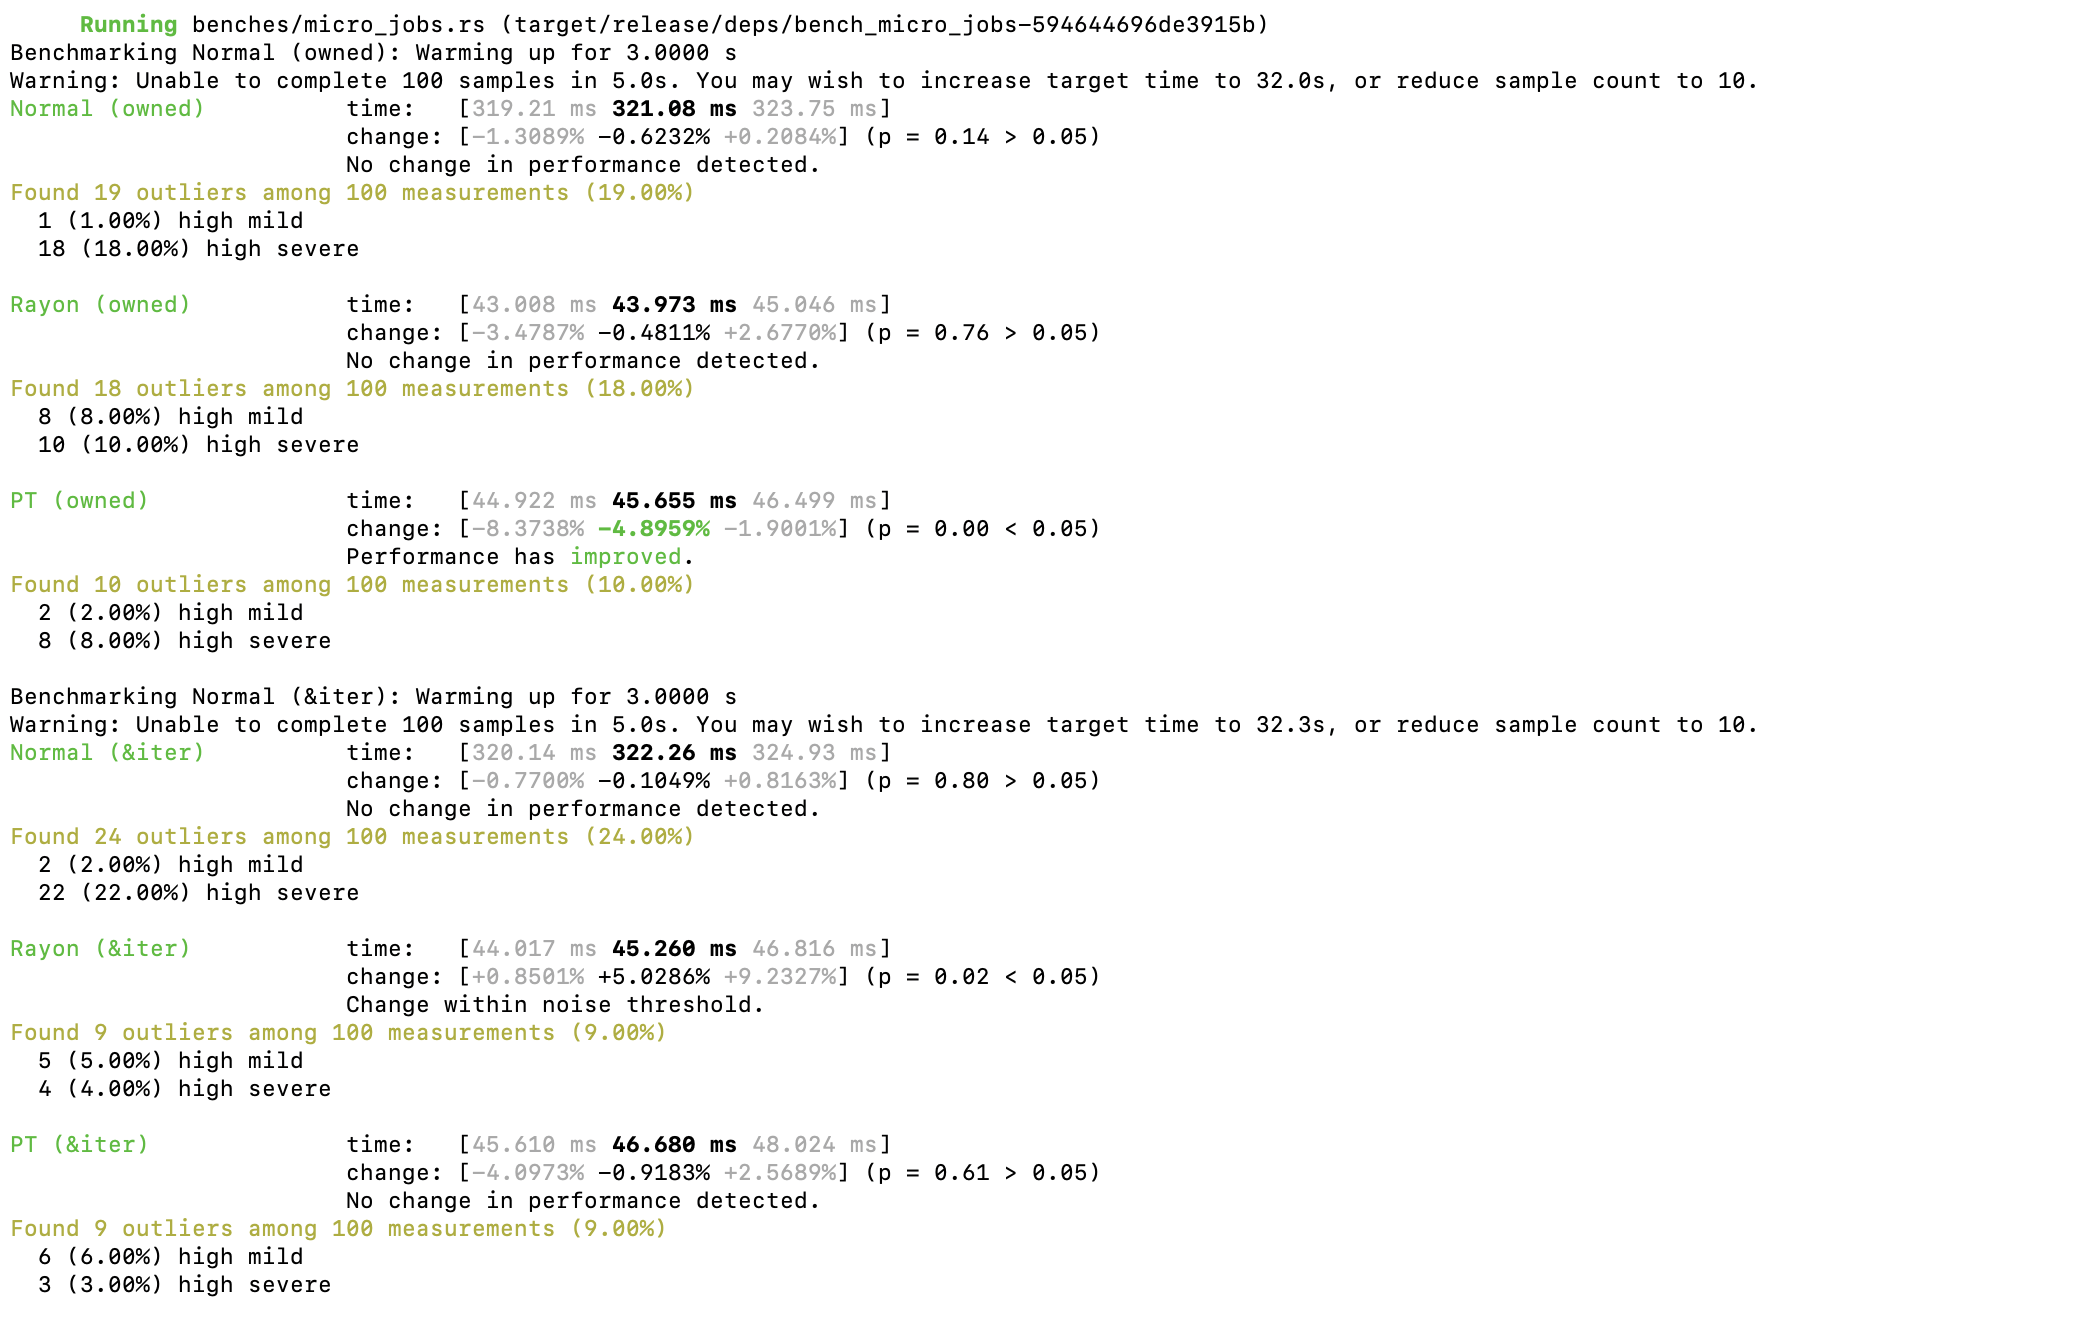
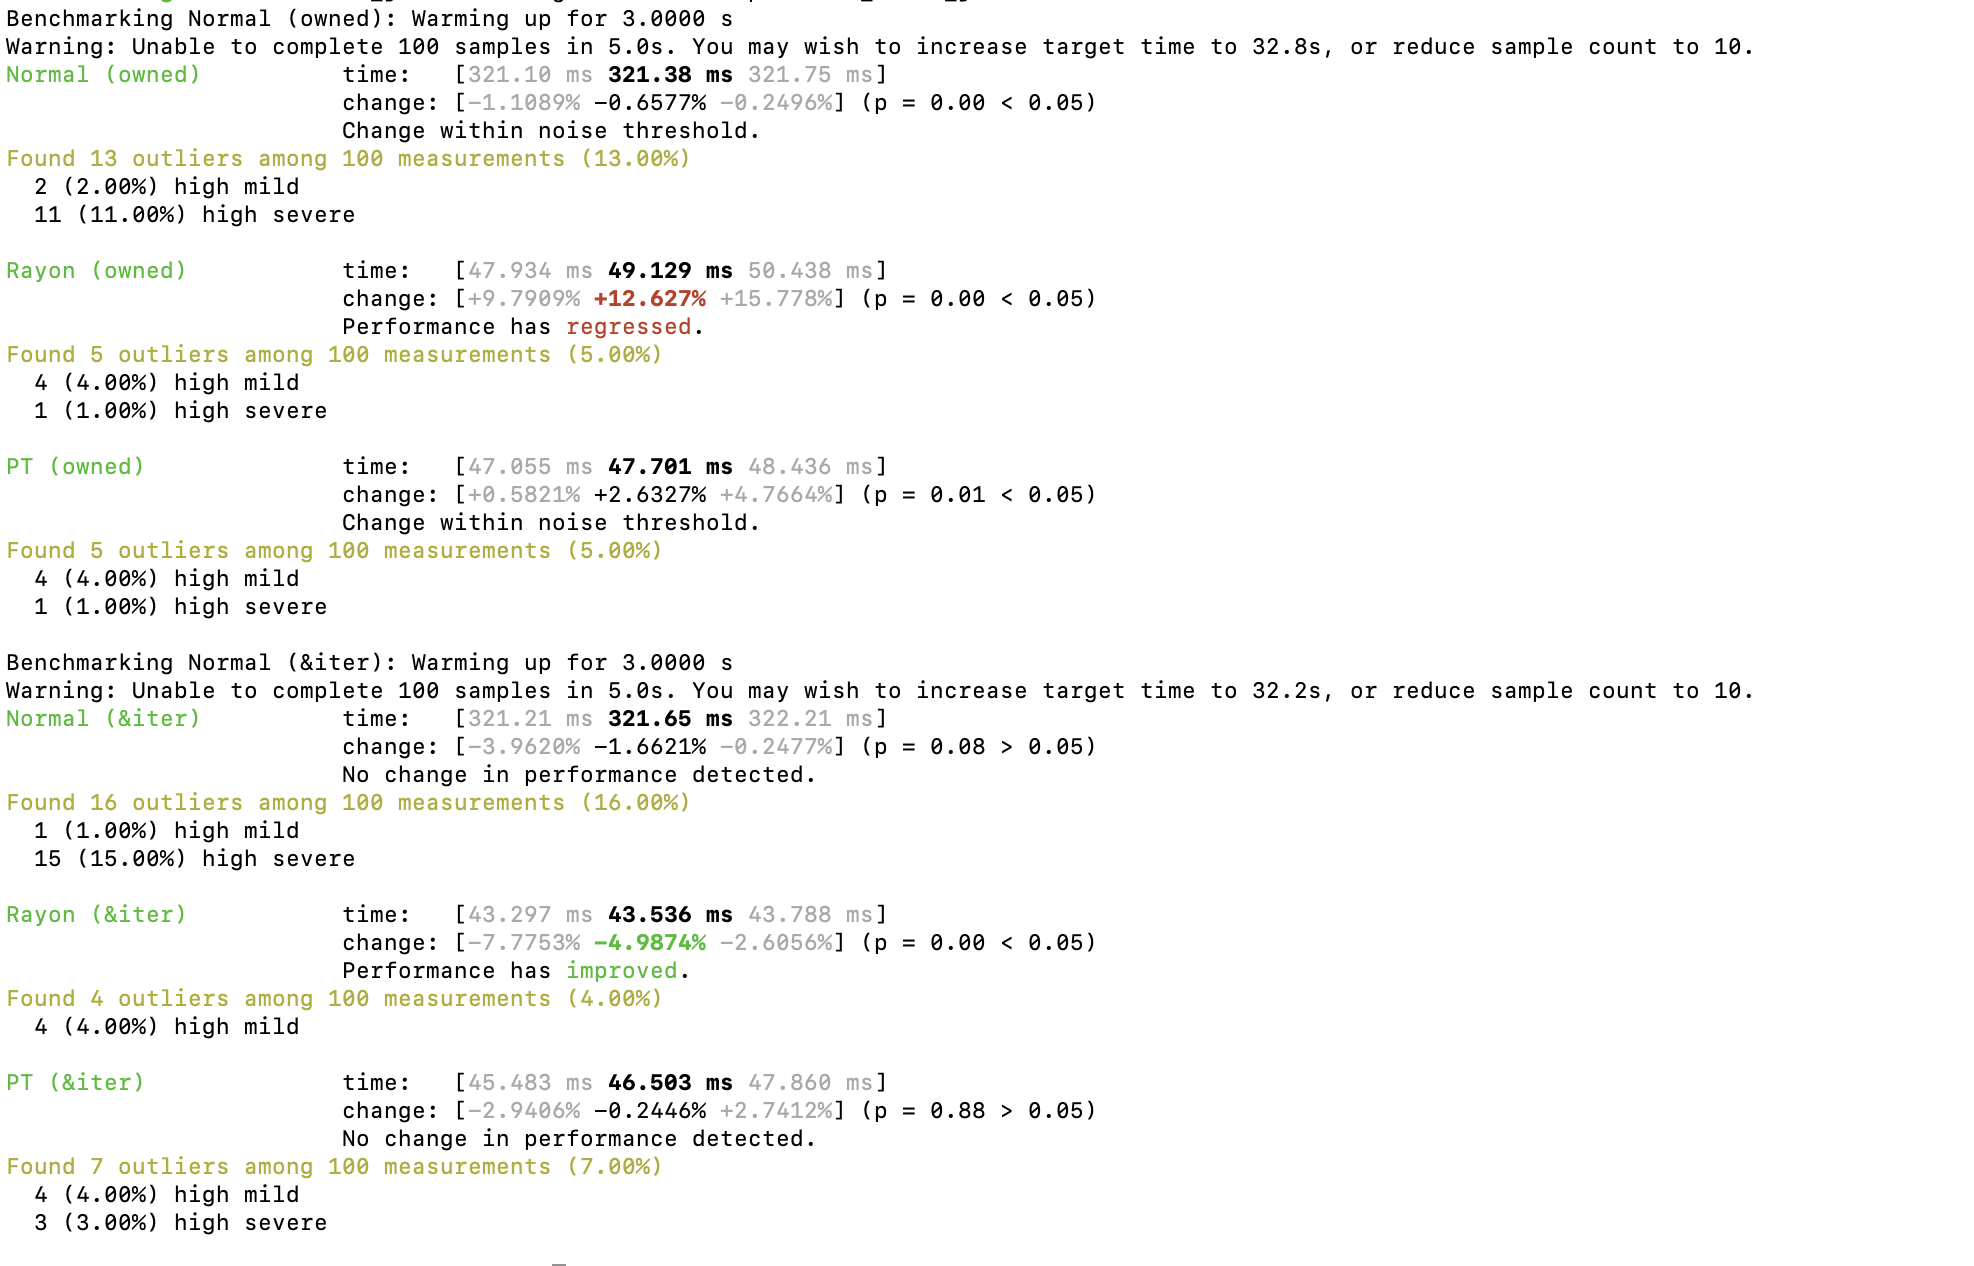
updated version with modifications in the algorithm. Increased control on threads picked for stealing and stats used to decide which thread to go for

diff --git a/src/push_workers/worker_controller.rs b/src/push_workers/worker_controller.rs
@@ -12,7 +12,7 @@ use crate::push_workers::thread_manager::ThreadManager;
 
 use super::worker_thread::WorkerThread;
 
-pub const INITIAL_WORKERS:usize = 1;
+pub const INITIAL_WORKERS:usize = 2;
 const MIN_QUEUE_LENGTH:usize = 2;
 
 pub struct WorkerController<F,V,T,I,P> 
